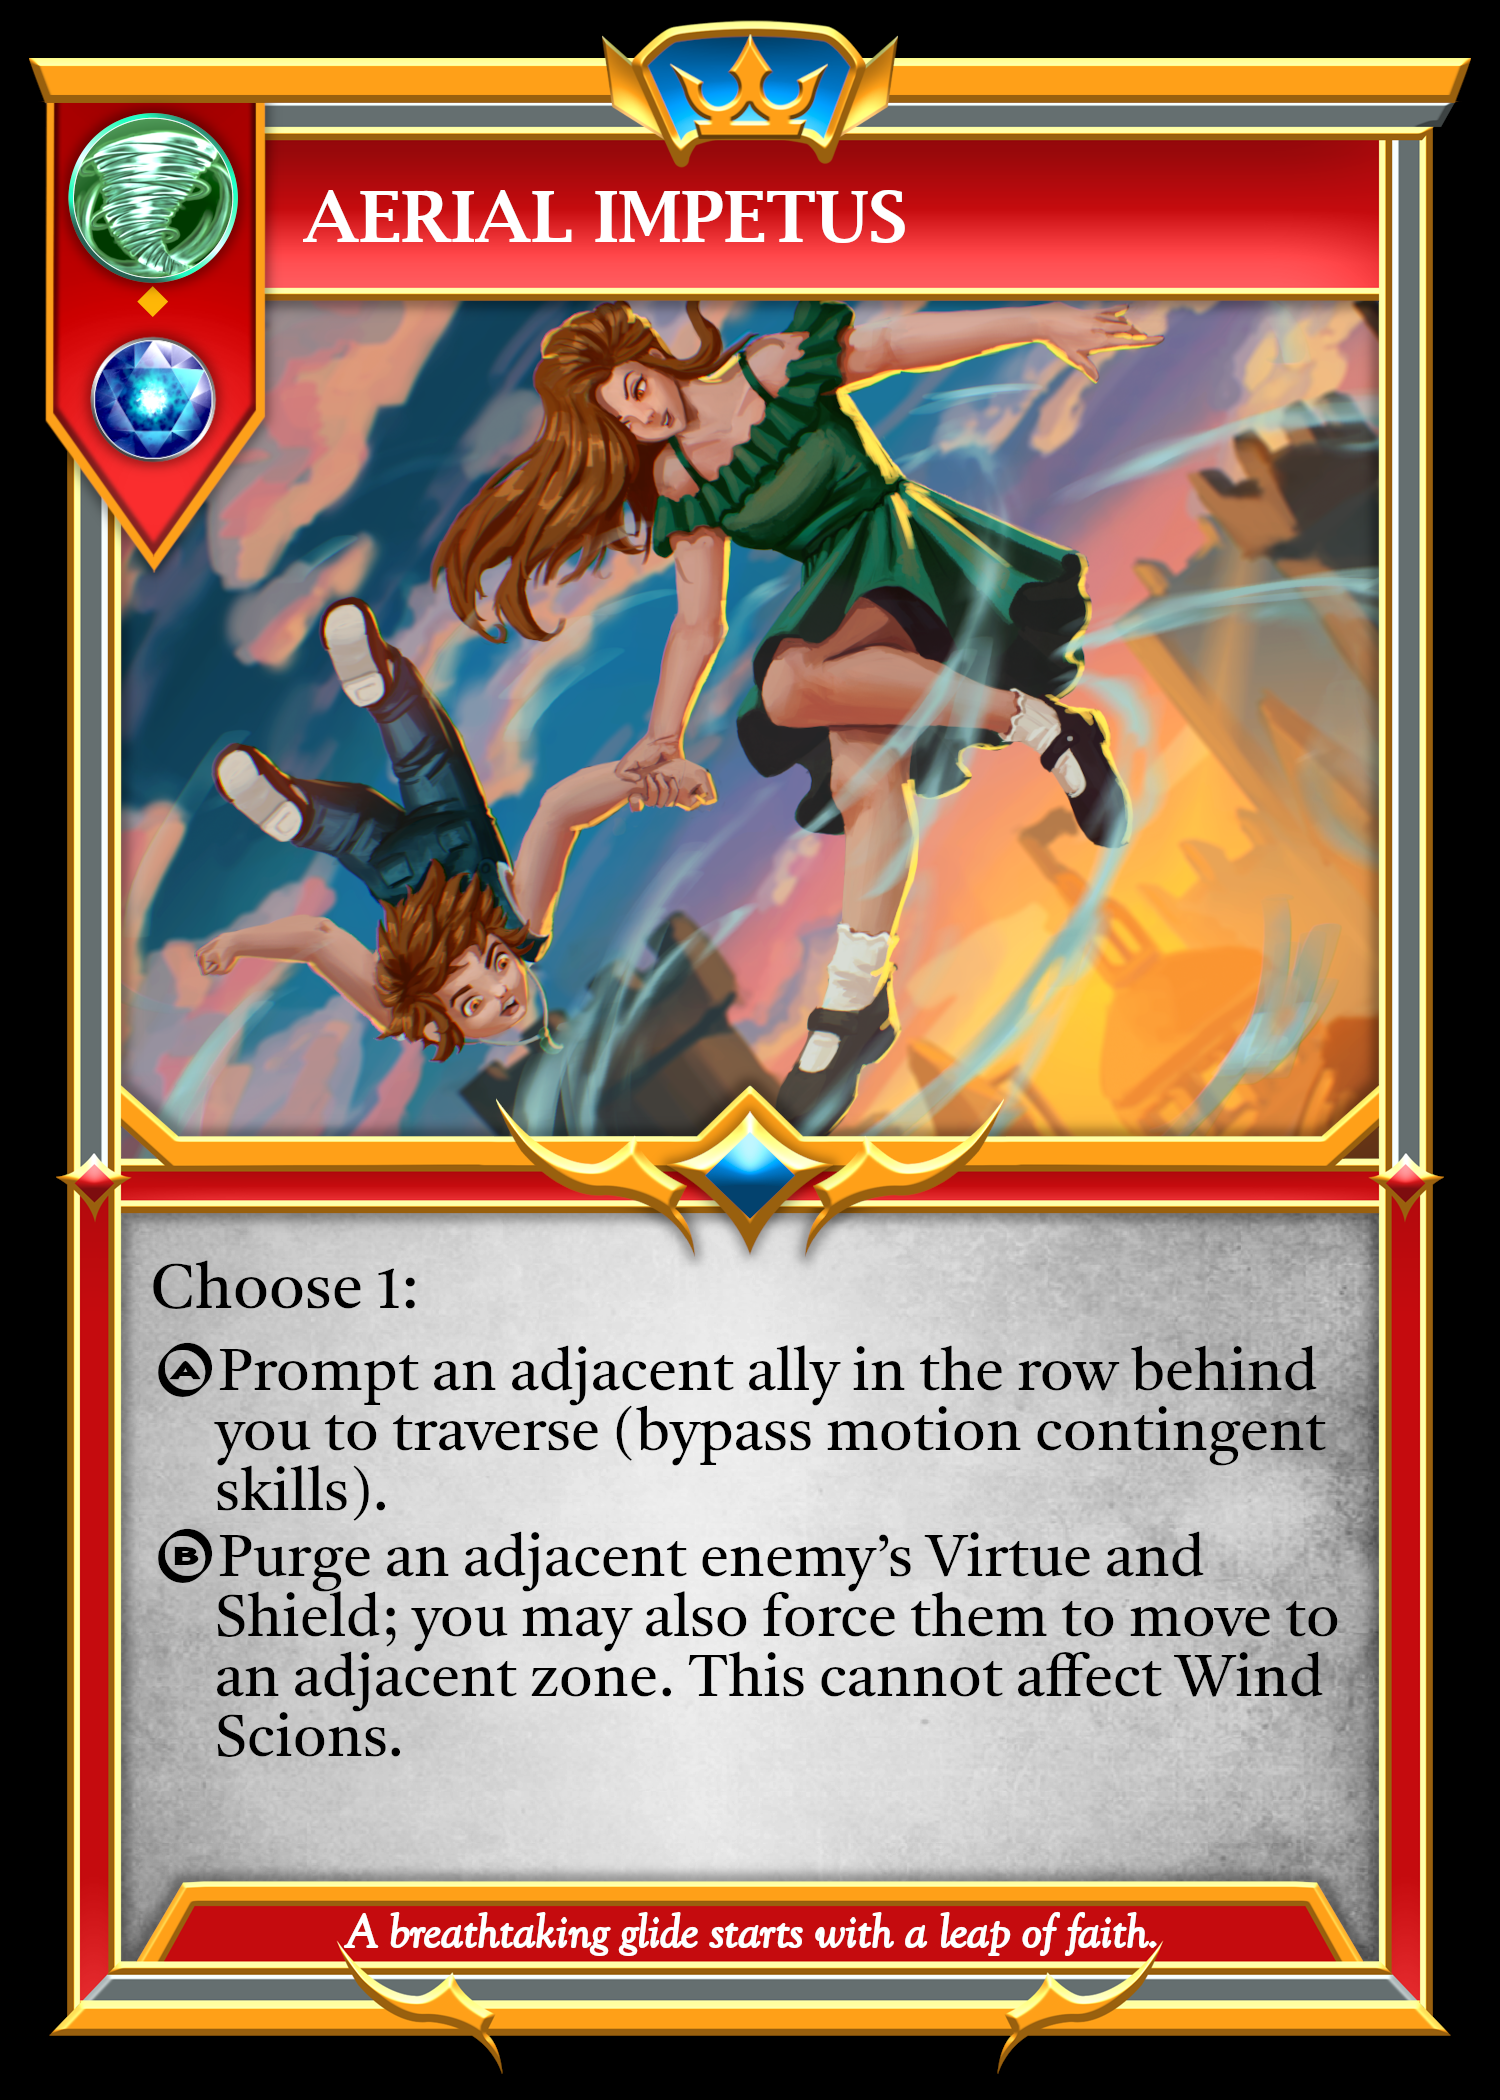
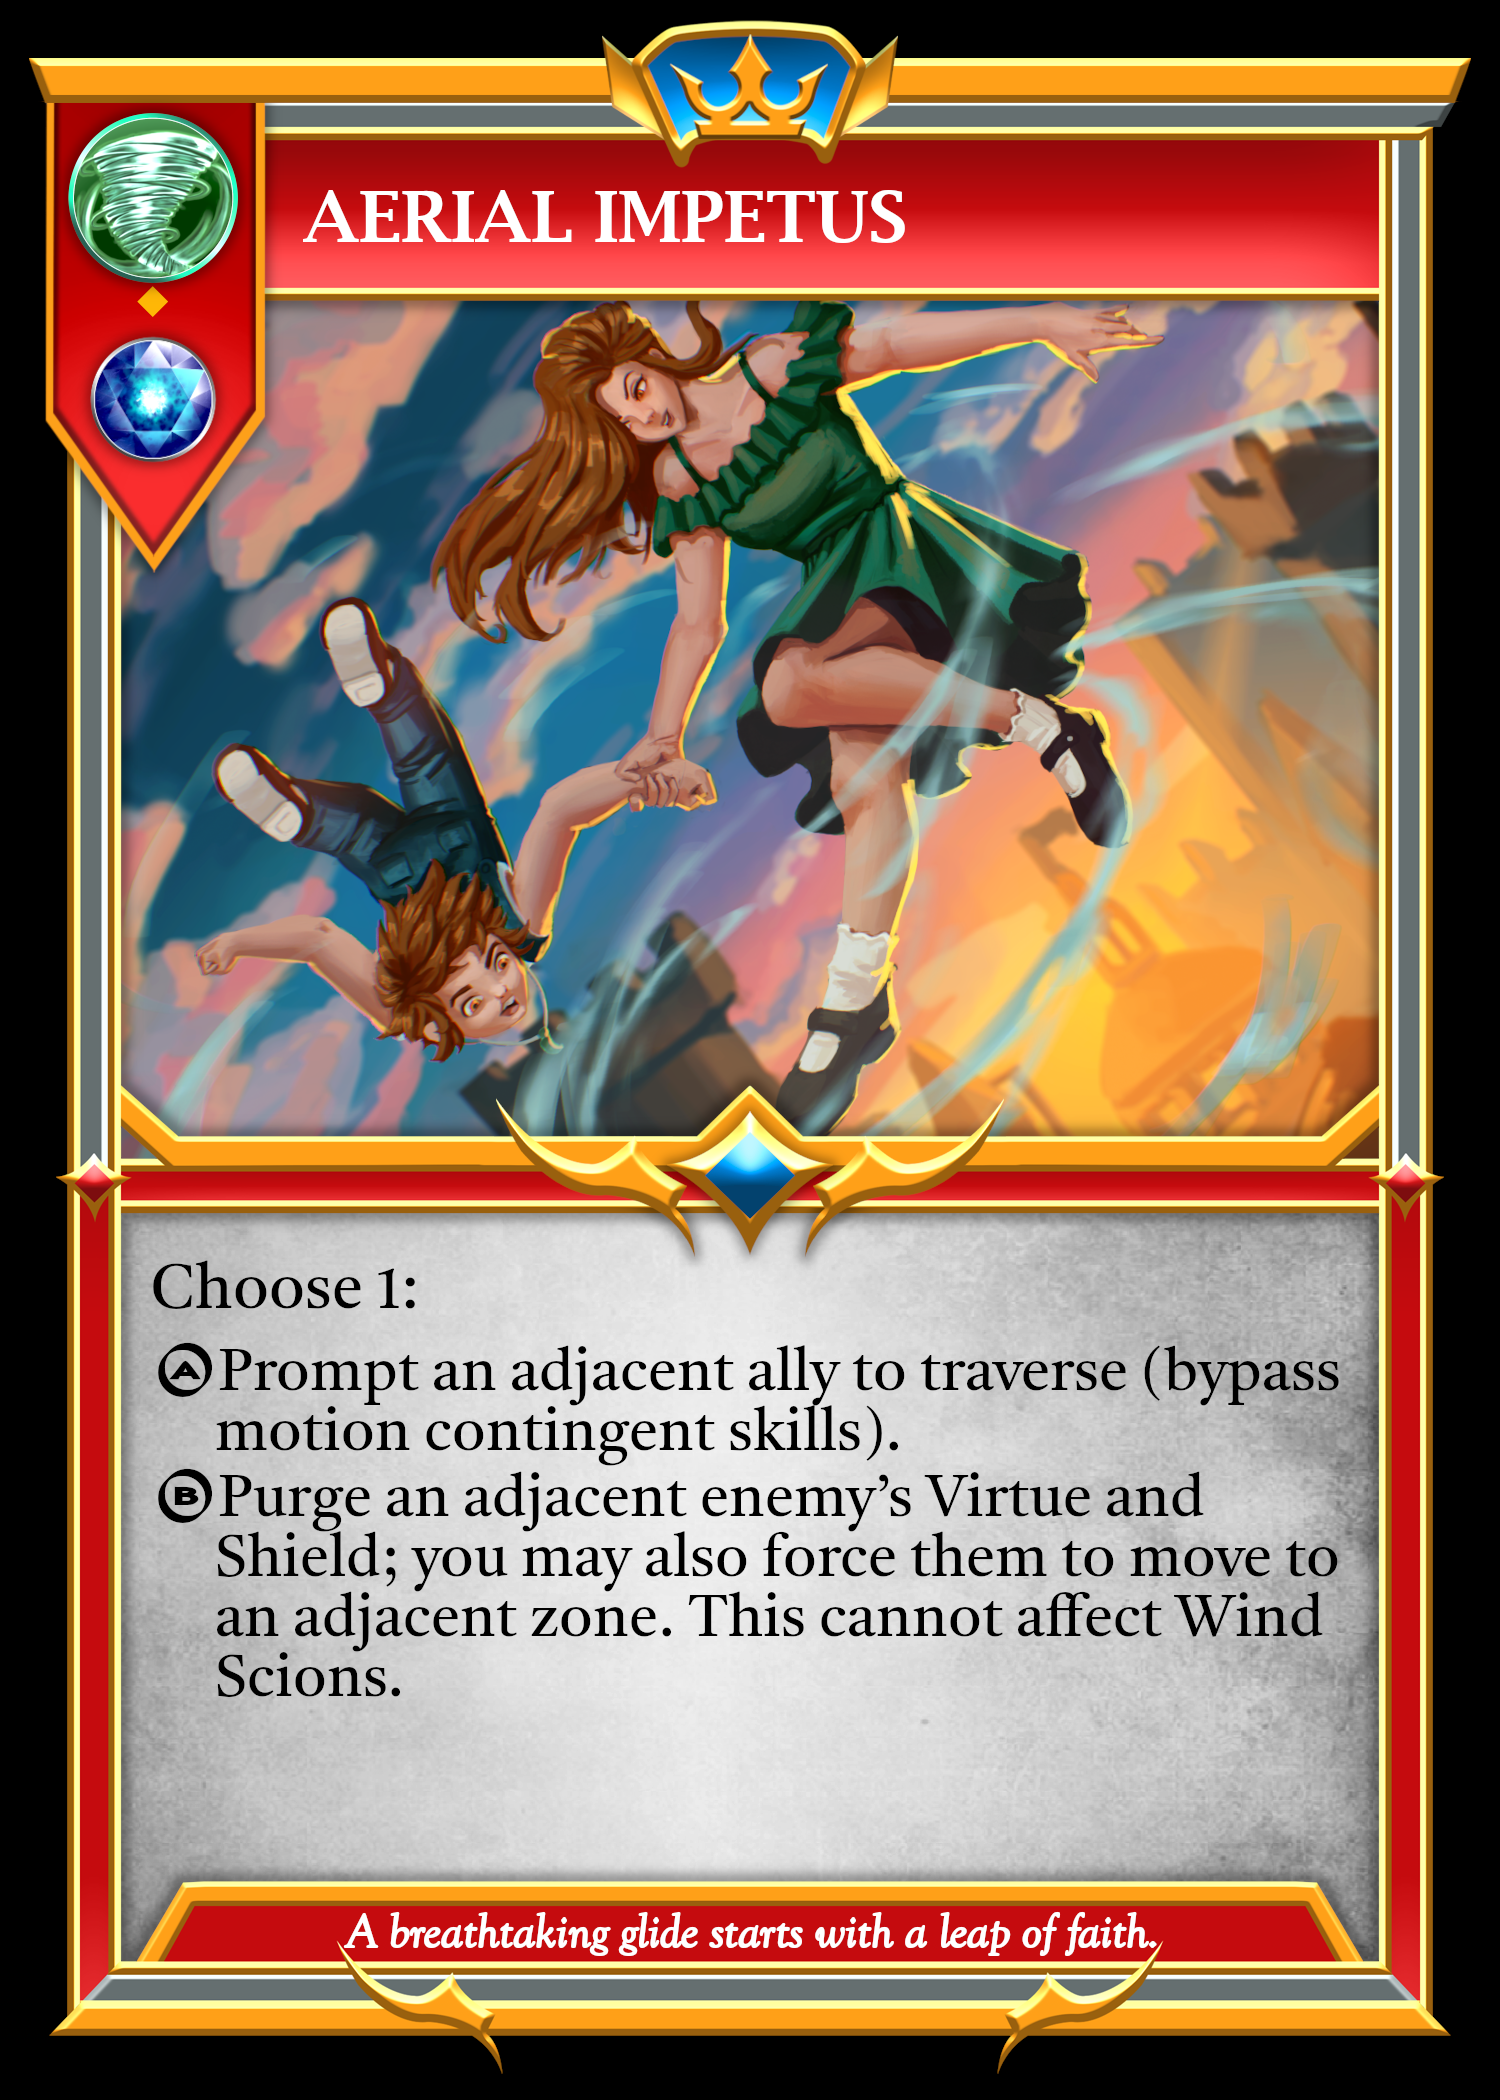
buffed aerial impetus

Changed region(s): [[0.092, 0.65, 0.8893, 0.8357]]

diff --git a/src/components/modals/AcquisitionPhase.jsx b/src/components/modals/AcquisitionPhase.jsx
@@ -1,4 +1,4 @@
-import React, { useState, useEffect } from "react";
+import React, { useState } from "react";
 import "./Modal.css";
 
 import { useSelector, useDispatch } from "react-redux";
@@ -6,13 +6,11 @@ import { updateState } from "../../redux/gameState";
 import { updateDemo } from "../../redux/demoGuide";
 
 import { useRecurringEffects } from "../../hooks/useRecurringEffects";
-import { useGetImages } from "../../hooks/useGetImages";
 
 const AcquisitionPhase = (props) => {
   const { localGameState } = useSelector((state) => state.gameState);
   const { self } = useSelector((state) => state.teams);
   const { demoGuide } = useSelector((state) => state.demoGuide);
-  const { getMiscImage } = useGetImages();
 
   const dispatch = useDispatch();
 
@@ -244,7 +242,6 @@ const AcquisitionPhase = (props) => {
               className={`modal-option-outline ${
                 selectedChoice === i ? "selected-modal-option" : ""
               } ${canClick("choice", i) ? "demoClick" : ""}`}
-              style={{ backgroundImage: `url(${getMiscImage("GoldFrame")})` }}
               onClick={() => {
                 handleChoice(i);
                 handleUpdateDemoGuide();

diff --git a/src/components/modals/SelectCustomChoice.jsx b/src/components/modals/SelectCustomChoice.jsx
@@ -7,13 +7,11 @@ import { updateDemo } from "../../redux/demoGuide";
 
 import { useRecurringEffects } from "../../hooks/useRecurringEffects";
 import { useCardDatabase } from "../../hooks/useCardDatabase";
-import { useGetImages } from "../../hooks/useGetImages";
 
 const SelectCustomChoice = (props) => {
   const { localGameState } = useSelector((state) => state.gameState);
   const { self, enemy } = useSelector((state) => state.teams);
   const { demoGuide } = useSelector((state) => state.demoGuide);
-  const { getMiscImage } = useGetImages();
 
   const dispatch = useDispatch();
 
@@ -119,8 +117,7 @@ const SelectCustomChoice = (props) => {
     case "Aerial Impetus":
       canFirstChoice = getZonesAerialImpetusAlly(unit).length > 0;
       canSecondChoice = getZonesWithEnemies(unit, 1).length > 0;
-      ChoiceFirstMessage =
-        "Prompt an adjacent ally in the row behind you to traverse.";
+      ChoiceFirstMessage = "Prompt an adjacent ally to traverse.";
       ChoiceSecondMessage = "Purge an adjacent enemy’s Virtue and Shield.";
       break;
 

diff --git a/src/hooks/useRecurringEffects.jsx b/src/hooks/useRecurringEffects.jsx
@@ -3772,12 +3772,16 @@ export const useRecurringEffects = () => {
       const ally = localGameState[zone.player].units[zone.unitIndex];
 
       if (canMove(ally) && !isImmobilized(ally)) {
-        if (ally.player === "host" && unit.row < ally.row) {
-          AerialImpetusAllyZones.push(ally.row * 5 + ally.column);
-        }
-        if (ally.player === "guest" && unit.row > ally.row) {
-          AerialImpetusAllyZones.push(ally.row * 5 + ally.column);
-        }
+        AerialImpetusAllyZones.push(ally.row * 5 + ally.column);
+
+        // Aerial Impetus has been buffed to affect any adjacent ally
+
+        // if (ally.player === "host" && unit.row < ally.row) {
+        //   AerialImpetusAllyZones.push(ally.row * 5 + ally.column);
+        // }
+        // if (ally.player === "guest" && unit.row > ally.row) {
+        //   AerialImpetusAllyZones.push(ally.row * 5 + ally.column);
+        // }
       }
     }
 

diff --git a/src/components/modals/CoordinationPhaseSelection.jsx b/src/components/modals/CoordinationPhaseSelection.jsx
@@ -12,7 +12,6 @@ import { updateState } from "../../redux/gameState";
 import { updateDemo } from "../../redux/demoGuide";
 
 import { useRecurringEffects } from "../../hooks/useRecurringEffects";
-import { useGetImages } from "../../hooks/useGetImages";
 
 const CoordinationPhaseSelection = (props) => {
   const { localGameState } = useSelector((state) => state.gameState);
@@ -24,7 +23,6 @@ const CoordinationPhaseSelection = (props) => {
   const [selectedChoice, setSelectedChoice] = useState(null);
 
   const { assignTactics, drawAvelhem, rollTactic } = useRecurringEffects();
-  const { getMiscImage } = useGetImages();
 
   let newGameState = JSON.parse(JSON.stringify(localGameState));
   const upgrade = newGameState[self].bountyUpgrades.coordination;

diff --git a/src/components/modals/SelectUnitAbility.jsx b/src/components/modals/SelectUnitAbility.jsx
@@ -13,13 +13,10 @@ import { updateDemo } from "../../redux/demoGuide";
 import { useRecurringEffects } from "../../hooks/useRecurringEffects";
 import { useCardDatabase } from "../../hooks/useCardDatabase";
 
-import { useGetImages } from "../../hooks/useGetImages";
-
 const SelectUnitAbility = (props) => {
   const { localGameState } = useSelector((state) => state.gameState);
   const { self, enemy } = useSelector((state) => state.teams);
   const { demoGuide } = useSelector((state) => state.demoGuide);
-  const { getMiscImage } = useGetImages();
 
   const dispatch = useDispatch();
 
